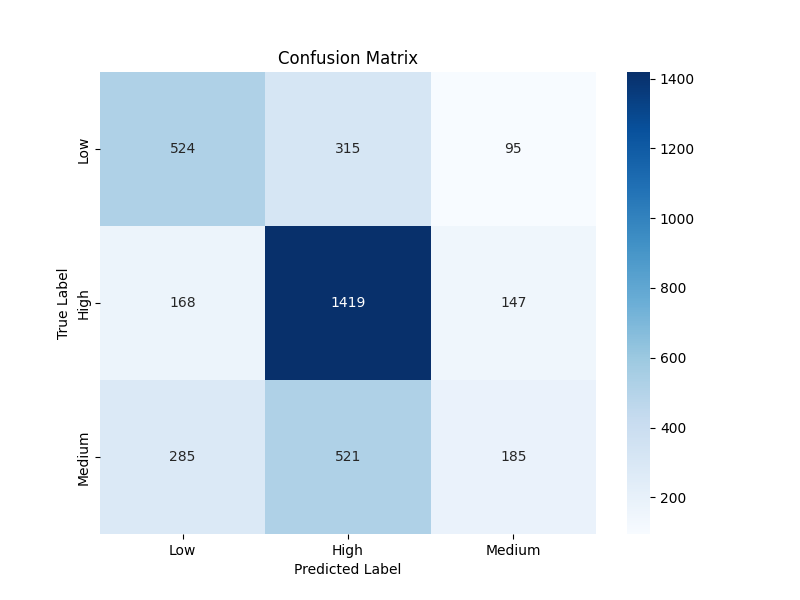
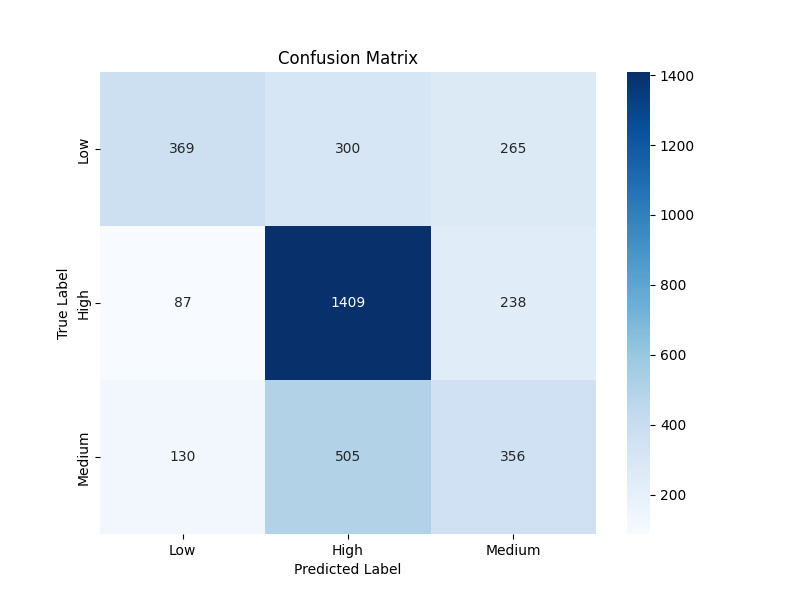
Introduced label encoding to deal with the high correlation of one-hot encoded features

diff --git a/Main.py b/Main.py
@@ -1,3 +1,5 @@
+from matplotlib import pyplot as plt
+import seaborn as sns
 import pandas as pd
 import sys
 import os
@@ -47,7 +49,8 @@ df['race'] = df['race'].str.replace('African-American', 'African American')
 
 relevant = ["sex","age","race","juv_fel_count","juv_misd_count","juv_other_count",
             "c_charge_degree","r_charge_degree","r_days_from_arrest",
-           "is_recid","vr_charge_degree"]
+           "vr_charge_degree"]
+# "is_recid",
 
 target = "score_text"
 
@@ -55,14 +58,99 @@ target = "score_text"
 class_names = ["Low", "Medium", "High"]
 class_names = ["0", "1", "2"]
 
+# Custom Label Encoding mapping for 'charge_degree'
+charge_degree_mapping = {
+    'F2': 0, 'F3': 1, 'F5': 2, 'F6': 3, 'F7': 4, 
+    'M1': 5, 'M2': 6, 'M03': 7, 'Unknown': -1
+}
+
+# Define the columns to One-Hot Encode
+one_hot_columns = ['race']
+
 #----------------------------------------------------------------------------------------------------------------------------------------
 
 y = df[target]
 
 df.drop(target, axis=1, inplace=True)
 #processor_processed = DataProcessor.DataProcessor(df, y, relevant, normalizer_enabled=False, encoder_enabled=False, imputer_enabled=False)
-processor_raw = DataProcessor.DataProcessor(df, y, relevant, normalizer_enabled=True, encoder_enabled=True, imputer_enabled=True)
+processor_raw = DataProcessor.DataProcessor(df, y, relevant, normalizer_enabled=True, encoder_enabled=True, imputer_enabled=True, one_hot_columns=one_hot_columns, label_mappings=charge_degree_mapping)
 (X_train, X_test, y_train, y_test) = processor_raw.process_data()
+
+## EDA
+## get the columns of X_train
+#columns = X_train.columns
+#print(columns)
+#
+#"""
+#Index(['sex', 'age', 'juv_fel_count', 'juv_misd_count', 'juv_other_count',
+#       'r_days_from_arrest', 'is_recid', 'race_Asian', 'race_Caucasian',
+#       'race_Hispanic', 'race_Native American', 'race_Other',
+#       'c_charge_degree_(CT)', 'c_charge_degree_(F1)', 'c_charge_degree_(F2)',
+#       'c_charge_degree_(F3)', 'c_charge_degree_(F5)', 'c_charge_degree_(F6)',
+#       'c_charge_degree_(F7)', 'c_charge_degree_(M1)', 'c_charge_degree_(M2)',
+#       'c_charge_degree_(MO3)', 'c_charge_degree_(NI0)',
+#       'c_charge_degree_(TCX)', 'c_charge_degree_(X)',
+#       'c_charge_degree_Unknown', 'r_charge_degree_(F1)',
+#       'r_charge_degree_(F2)', 'r_charge_degree_(F3)', 'r_charge_degree_(F5)',
+#       'r_charge_degree_(F6)', 'r_charge_degree_(F7)', 'r_charge_degree_(M1)',
+#       'r_charge_degree_(M2)', 'r_charge_degree_(MO3)',
+#       'r_charge_degree_Unknown', 'vr_charge_degree_(F2)',
+#       'vr_charge_degree_(F3)', 'vr_charge_degree_(F5)',
+#       'vr_charge_degree_(F6)', 'vr_charge_degree_(F7)',
+#       'vr_charge_degree_(M1)', 'vr_charge_degree_(M2)',
+#       'vr_charge_degree_(MO3)', 'vr_charge_degree_Unknown'],
+#      dtype='object')
+#"""
+#
+#X_train_reduced_race = X_train[['race_Asian', 'race_Caucasian', 'race_Hispanic', 'race_Native American', 'race_Other']]
+#
+##X_train_reduced_c_charge_degree = X_train[['c_charge_degree_(CT)', 'c_charge_degree_(F1)', 'c_charge_degree_(F2)',
+##       'c_charge_degree_(F3)', 'c_charge_degree_(F5)', 'c_charge_degree_(F6)',
+##       'c_charge_degree_(F7)', 'c_charge_degree_(M1)', 'c_charge_degree_(M2)',
+##       'c_charge_degree_(MO3)', 'c_charge_degree_(NI0)',
+##       'c_charge_degree_(TCX)', 'c_charge_degree_(X)',
+##       'c_charge_degree_Unknown']]
+##
+##X_train_reduced_r_charge_degree = X_train[['r_charge_degree_(F1)',
+##       'r_charge_degree_(F2)', 'r_charge_degree_(F3)', 'r_charge_degree_(F5)',
+##       'r_charge_degree_(F6)', 'r_charge_degree_(F7)', 'r_charge_degree_(M1)',
+##       'r_charge_degree_(M2)', 'r_charge_degree_(MO3)',
+##       'r_charge_degree_Unknown']]
+##
+##X_train_reduced_vr_charge_degree = X_train[['vr_charge_degree_(F2)',
+##       'vr_charge_degree_(F3)', 'vr_charge_degree_(F5)',
+##       'vr_charge_degree_(F6)', 'vr_charge_degree_(F7)',
+##       'vr_charge_degree_(M1)', 'vr_charge_degree_(M2)',
+##       'vr_charge_degree_(MO3)', 'vr_charge_degree_Unknown']]
+#
+#
+## List of DataFrames and corresponding titles
+#dataframes = [
+#    (X_train, "Correlation Matrix X_train"),
+#    (X_train_reduced_race, "Correlation Matrix X_train_reduced_race"),
+#    #(X_train_reduced_c_charge_degree, "Correlation Matrix X_train_reduced_c_charge_degree"),
+#    #(X_train_reduced_r_charge_degree, "Correlation Matrix X_train_reduced_r_charge_degree"),
+#    #(X_train_reduced_vr_charge_degree, "Correlation Matrix X_train_reduced_vr_charge_degree")
+#]
+#
+## Loop through each DataFrame, compute the correlation matrix, plot, and save the figure
+#for df, title in dataframes:
+#    corr_matrix = df.corr()
+#
+#    plt.figure(figsize=(12, 8))
+#    if title != "Correlation Matrix X_train":
+#        sns.heatmap(corr_matrix, annot=True, cmap="coolwarm", fmt=".2f", linewidths=0.5)
+#    else:
+#        sns.heatmap(corr_matrix, annot=False, cmap="coolwarm", fmt=".2f", linewidths=0.5)
+#    
+#    plt.title(title)
+#
+#    # Save the figure as a PNG file
+#    plt.savefig(f"{title}.png", bbox_inches='tight')
+#
+#    # Show the plot (optional)
+#    plt.show()
+
 
 
 #----------------------------------------------------------------------------------------------------------------------------------------

diff --git a/Data Processing/DataProcessor.py b/Data Processing/DataProcessor.py
@@ -35,7 +35,7 @@ class DataProcessor:
             Runs the full preprocessing pipeline: filters columns, handles missing values, normalizes and encodes features, and splits the data.
     """
     
-    def __init__(self, df, y, relevant_columns, normalizer_enabled=True, encoder_enabled=True, imputer_enabled=True, safe_processed_data_enabled=False):
+    def __init__(self, df, y, relevant_columns, normalizer_enabled=True, encoder_enabled=True, imputer_enabled=True, safe_processed_data_enabled=False, one_hot_columns=None, label_mappings=None):
         """
         Initializes the DataProcessor with the given dataset and settings.
 
@@ -53,6 +53,8 @@ class DataProcessor:
         self.imputer_enabled = imputer_enabled
         self.relevant_columns = relevant_columns
         self.safe_processed_data_enabled = safe_processed_data_enabled
+        self.one_hot_columns = one_hot_columns
+        self.label_mappings = label_mappings
 
     def preprocess_data(self):
         """
@@ -98,23 +100,39 @@ class DataProcessor:
             if self.df[col].dtype in ['int64', 'float64']: 
                 self.df[col] = scaler.fit_transform(self.df[[col]]) 
 
-    def encode_categorical_features(self):
+    def encode_categorical_features(self, one_hot_columns=None, label_mappings=None):
         """
         Encodes categorical features in the dataset.
         
         This method applies:
-        - One-Hot Encoding for nominal categorical features (with more than two unique values).
-        - Label Encoding for binary or ordinal categorical features (with two unique values).
+        - One-Hot Encoding for specified columns (nominal features).
+        - Custom Label Encoding for other categorical features (binary or ordinal features).
+        
+        :param one_hot_columns: List of column names to apply One-Hot Encoding.
+                                If None, all columns with more than 2 unique values will be one-hot encoded.
+        :param label_mappings: Dictionary of column names with custom Label Encoding mappings.
+                               If None, default Label Encoding will be applied.
         """
-        le = LabelEncoder()  
+        le = LabelEncoder()
+
+        # Default to One-Hot Encoding columns with more than 2 unique values, if no specific columns are provided
+        if one_hot_columns is None:
+            one_hot_columns = [col for col in self.df.columns if self.df[col].dtype == 'object' and len(self.df[col].unique()) > 2]
 
         # Loop through all categorical columns to apply encoding
         for col in self.df.columns:
-            if self.df[col].dtype == 'object':  
-                if len(self.df[col].unique()) > 2:  
-                    self.df = pd.get_dummies(self.df, columns=[col], drop_first=True)  
-                else:  
-                    self.df[col] = le.fit_transform(self.df[col]) 
+            if self.df[col].dtype == 'object':
+                if col in one_hot_columns:  # Apply One-Hot Encoding
+                    self.df = pd.get_dummies(self.df, columns=[col], drop_first=True)
+                else:  # Apply Label Encoding
+                    if label_mappings and col in label_mappings:
+                        # Apply custom mapping for Label Encoding
+                        self.df[col] = self.df[col].map(label_mappings[col])
+                    else:
+                        # Apply default Label Encoding if no mapping is provided
+                        self.df[col] = le.fit_transform(self.df[col])
+
+        return self.df
                     
     def safe_processed_data(self):
         self.df.to_csv("cox-violent-parsed_filt_processed.csv", index=False)
@@ -154,7 +172,7 @@ class DataProcessor:
             self.normalize_numerical_columns()
             print("here3")
         if self.encoder_enabled:
-            self.encode_categorical_features()
+            self.encode_categorical_features(self.one_hot_columns, self.label_mappings)
             print("here4")
         if self.safe_processed_data_enabled:
             self.safe_processed_data()
